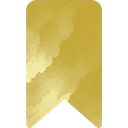
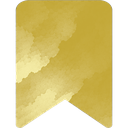
feat(série): nouveaux marque-pages, coche plus épaisse

diff --git a/app/streak.tsx b/app/streak.tsx
@@ -174,7 +174,7 @@ function DayCell({ letter, label, isToday, future, read, bonus }: DayCellProps) 
       <Text style={[styles.weekday, isToday && styles.weekdayToday]}>{letter}</Text>
       {read ? (
         <LinearGradient colors={[lowki.red.light, lowki.red.dark]} style={styles.cell}>
-          <CheckIcon size={18} color={lowki.butter.light} strokeWidth={3} />
+          <CheckIcon size={20} color={lowki.butter.light} strokeWidth={4} />
         </LinearGradient>
       ) : bonus ? (
         <View style={styles.cell}>
